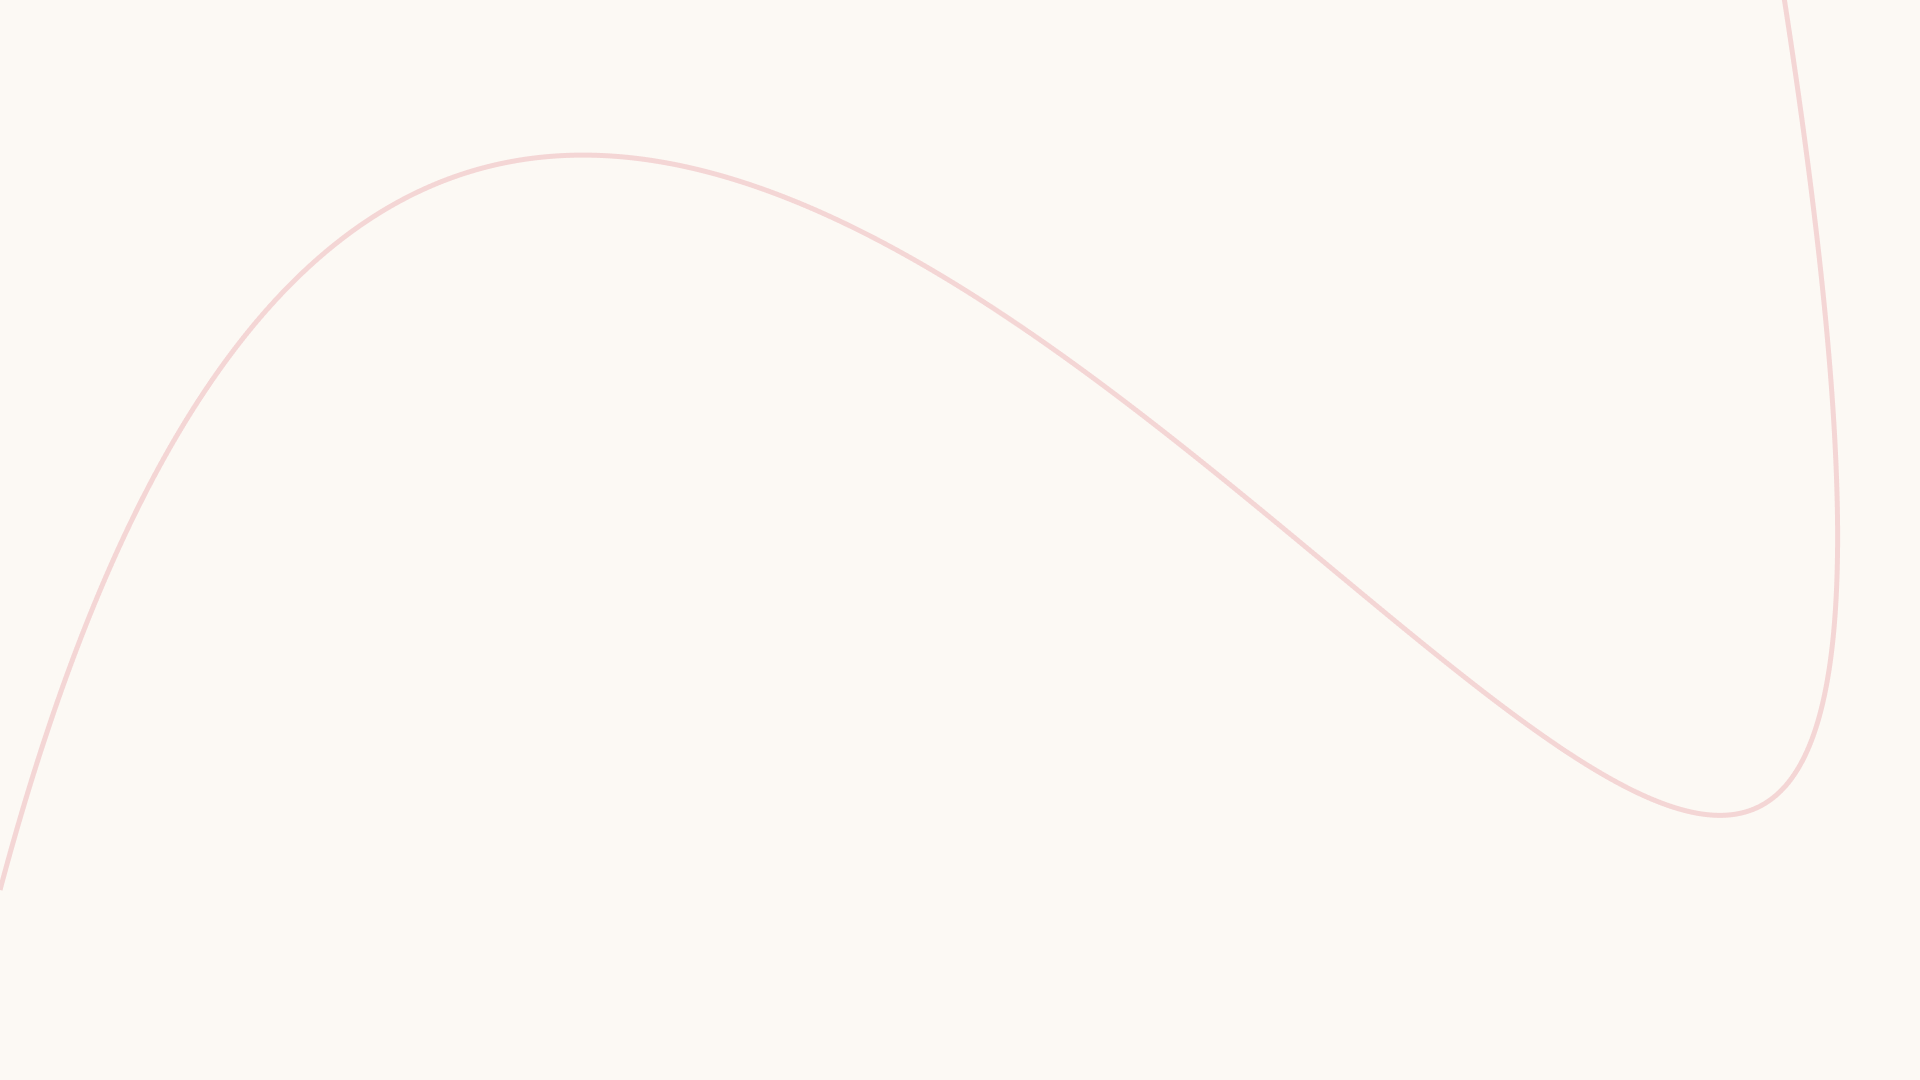
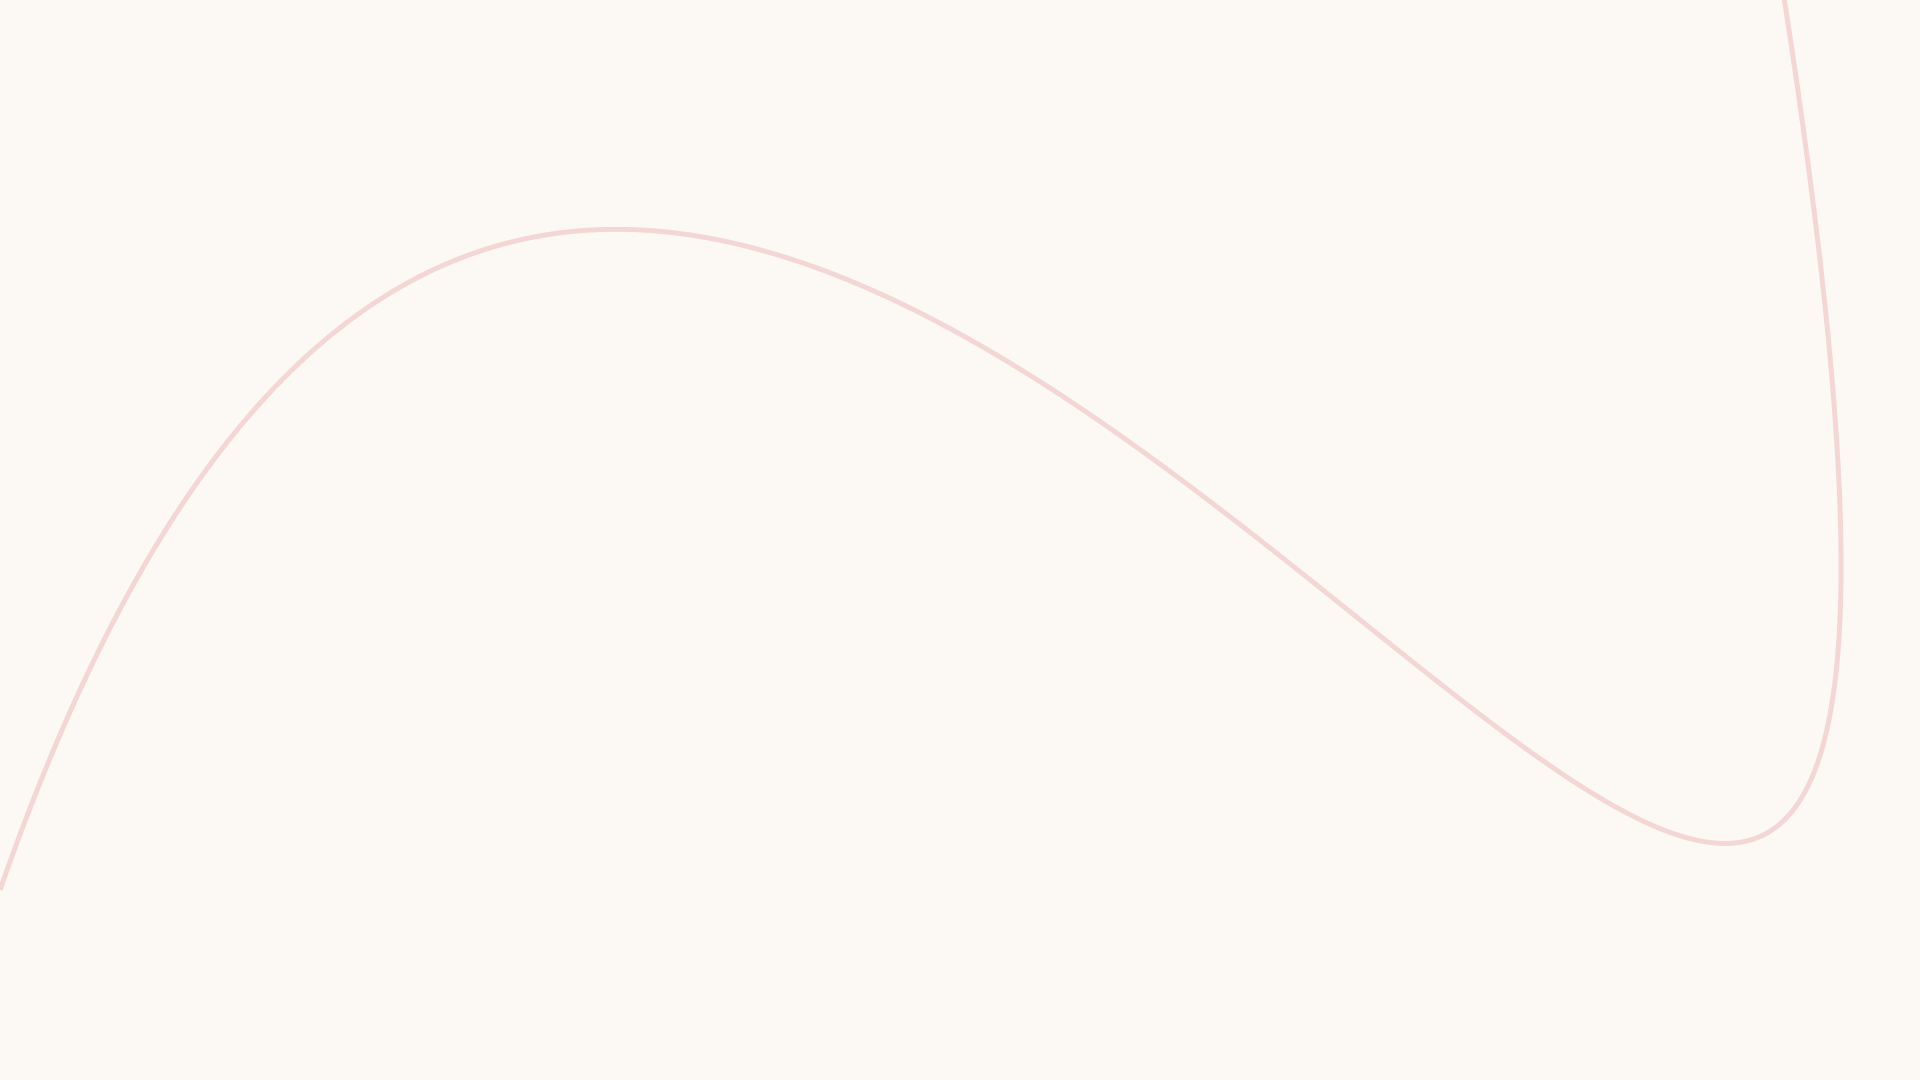
changed the background

diff --git a/styles/styles.css b/styles/styles.css
@@ -15,7 +15,7 @@
         }
 
         body {
-            font-family: 'Montserrat', sans-serif;
+             font-family: "Lato", sans-serif;
             background-color: var(--cream-bg);
             color: var(--text-dark);
             overflow-x: hidden;
@@ -35,7 +35,7 @@
         }
 
         .logo {
-           width: 100px;
+           width: 120px;
            display: block;
         }
 
@@ -88,7 +88,7 @@
             justify-content: space-between;
             min-height: 100vh;
             padding: 0 15%; /* Aumentado de 8% para 15% para alinhar com o header */
-            background-image: url('assets/background.png'); 
+            background-image: url('../assets/background2.png'); 
             background-size: cover;
             background-position: center;
             background-repeat: no-repeat;
@@ -99,7 +99,7 @@
         }
 
         .hero-name {
-            font-size: 1.5rem;
+            font-size: 1.8rem;
             font-weight: 300;
             color: var(--text-dark);
             margin-bottom: 10px;
@@ -108,8 +108,7 @@
         .hero-title {
             font-family: "Bebas Neue", sans-serif;
             font-weight: 400;
-            font-style: normal;
-            font-size: 2.5rem;
+            font-size: 2.8rem;
             color: var(--primary-red);
             line-height: 1.2;
             margin-bottom: 20px;
@@ -117,7 +116,7 @@
 
         .hero-quote {
             font-style: italic;
-            font-size: 1rem;
+            font-size: 1.2rem;
             color: #555;
             margin-bottom: 40px;
             border-left: 3px solid var(--primary-red);
@@ -128,8 +127,8 @@
             display: inline-block;
             background-color: var(--primary-red);
             color: #fff;
-            padding: 15px 40px;
-            border-radius: 30px;
+            padding: 15px 60px;
+            border-radius: 20px;
             text-decoration: none;
             font-weight: 600;
             font-size: 1.1rem;
@@ -163,7 +162,7 @@
 
         /* --- Footer --- */
         footer {
-            background-color: var(--primary-red);
+            background-color: var(--text-dark);
             color: var(--cream-bg);
             text-align: center;
             padding: 20px;

diff --git a/index.html b/index.html
@@ -4,7 +4,7 @@
     <meta charset="UTF-8">
     <meta name="viewport" content="width=device-width, initial-scale=1.0">
     <title>Sara Mayélli - Advogada</title>
-    
+    <link rel="stylesheet" href="https://stackpath.bootstrapcdn.com/font-awesome/4.7.0/css/font-awesome.min.css" integrity="sha384-wvfXpqpZZVQGK6TAh5PVlGOfQNHSoD2xbE+QkPxCAFlNEevoEH3Sl0sibVcOQVnN" crossorigin="anonymous">
     <link rel="icon" type="image/svg" href="assets/logo-icon.png">
     <link rel="stylesheet" href="styles/styles.css">
 </head>
@@ -35,7 +35,7 @@
             <h1 class="hero-title">Advogada de Família, Civil e Criminal.</h1>
             <p class="hero-quote">"Justiça e direito são o fundamento do teu trono; graça e verdade te precedem."</p>
             
-            <a href="#" class="btn-cta">Contratar</a>
+            <a href="#" class="btn-cta">Falar com a advogada&emsp;<i class="fa fa-chevron-right" aria-hidden="true"></i></a>
         </div>
 
         <div class="hero-image-container">
